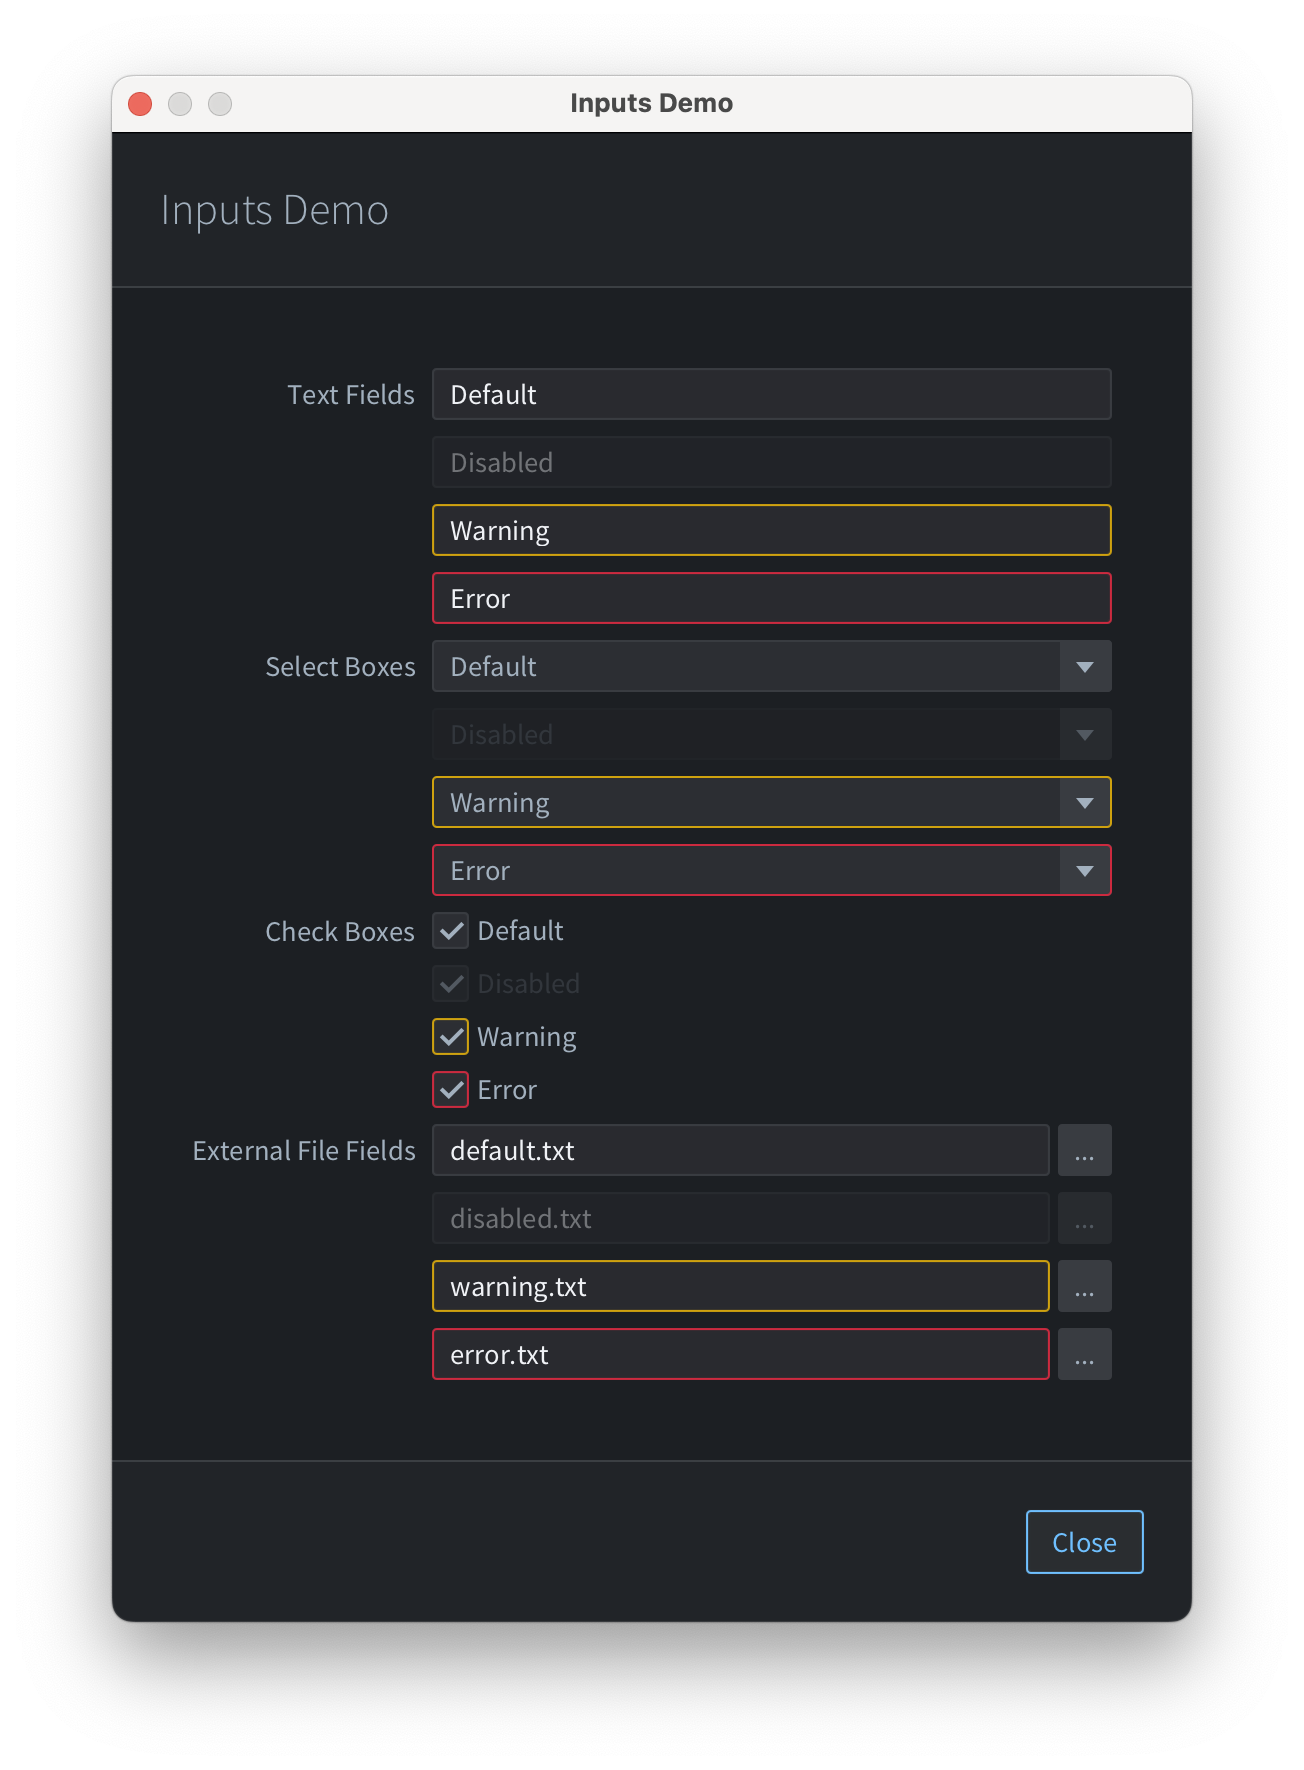
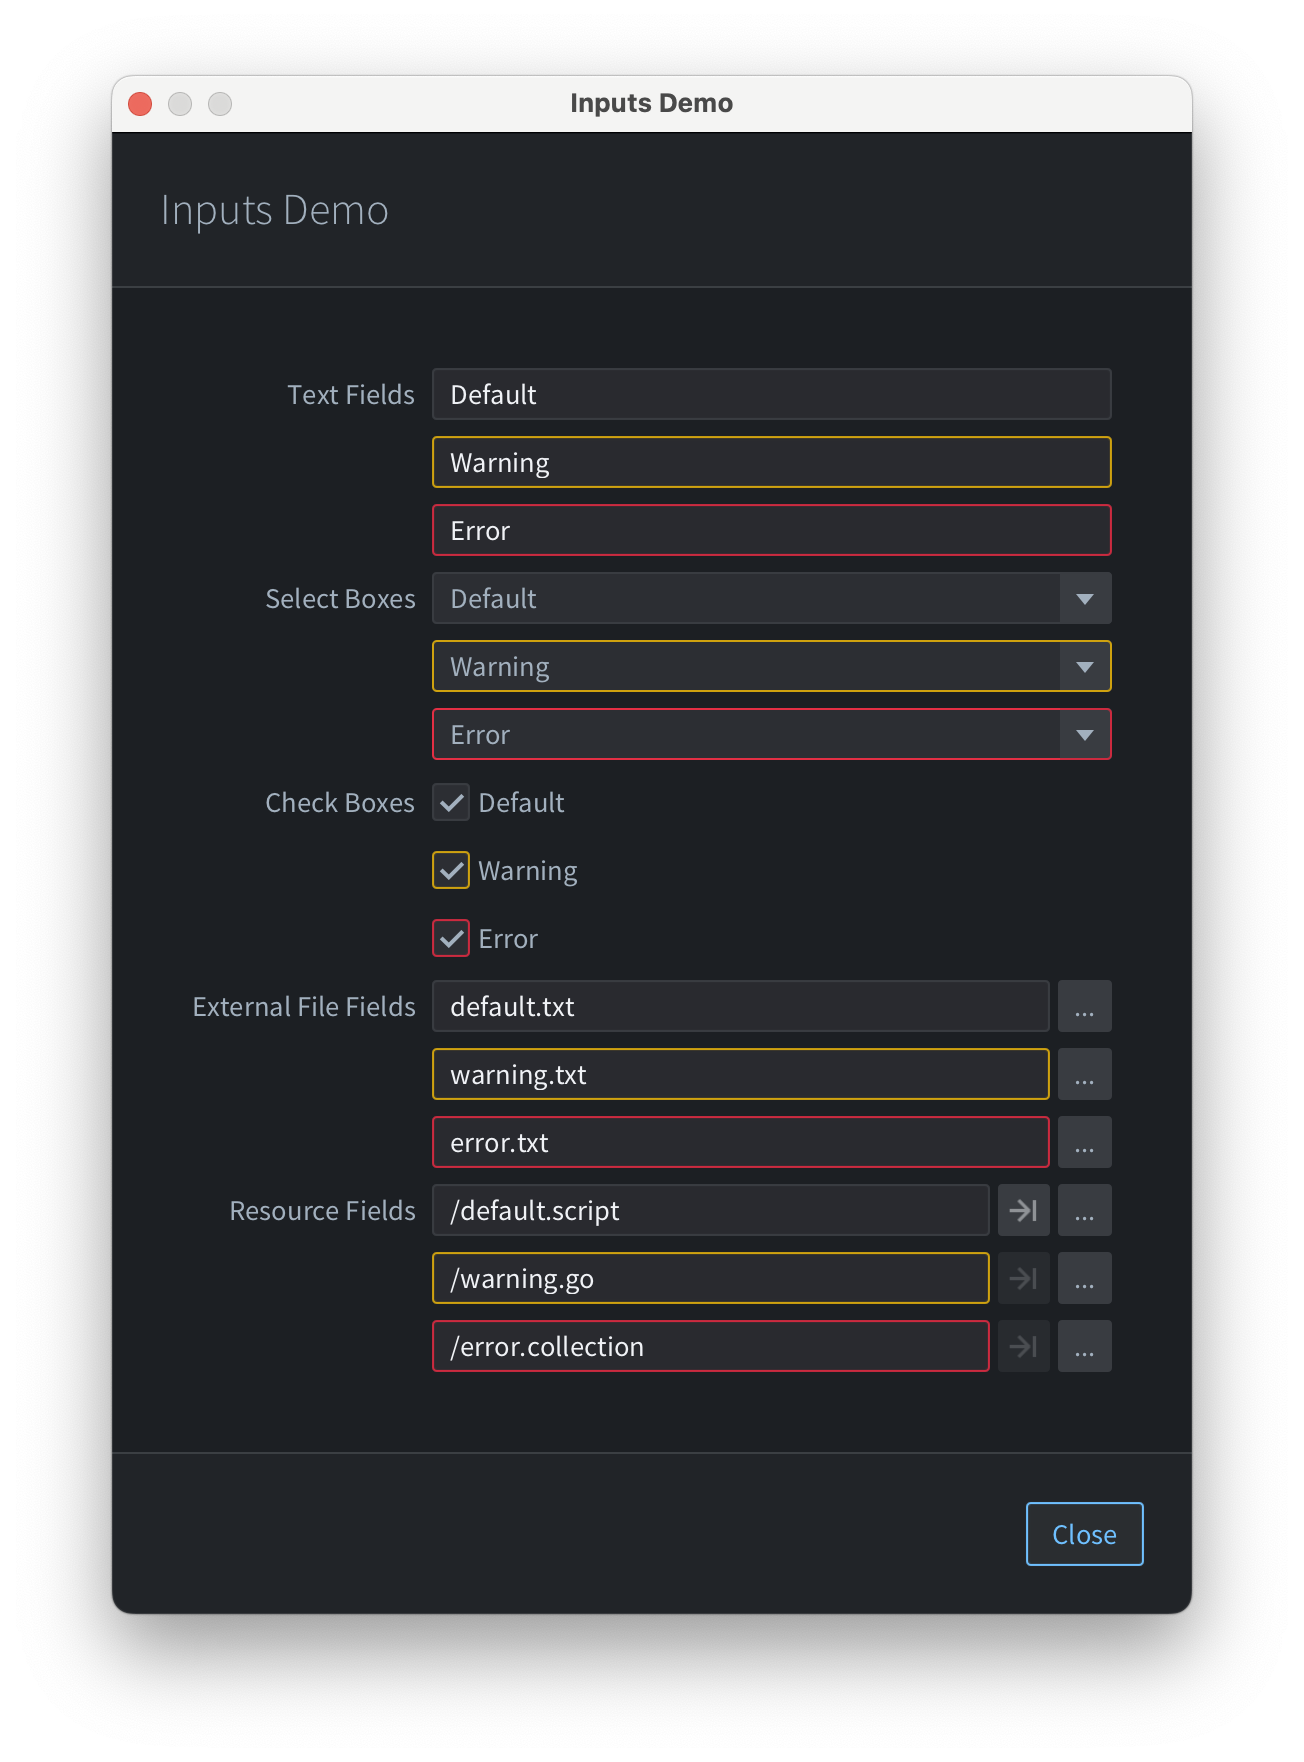
Update the manual

diff --git a/docs/en/manuals/editor-scripts-ui.md b/docs/en/manuals/editor-scripts-ui.md
@@ -66,13 +66,13 @@ The editor provides various UI **components** that can be composed to create the
 
 ### Alignment
 
-When the component gets assigned some bounds in the UI, it consume the whole space, though it does not mean that the visible part of the component will stretch. Instead, the visible part will take the space it needs, and then it will be aligned within the assigned bounds. Therefore, most built-in components define an `alignment` prop.
+When the component gets assigned some bounds in the UI, it will consume the whole space, though it does not mean that the visible part of the component will stretch. Instead, the visible part will take the space it needs, and then it will be aligned within the assigned bounds. Therefore, most built-in components define an `alignment` prop.
 
 For example, consider this label component:
 ```lua
 editor.ui.label({
     text = "Hello",
-    alignment = editor.ui.ALIGNMENT_RIGHT
+    alignment = editor.ui.ALIGNMENT.RIGHT
 })
 ```
 The visible part is the `Hello` text, and it's aligned within the assigned component bounds:
@@ -87,53 +87,29 @@ The editor defines various built-in components that can be used together to buil
 Layout components are used for placing other components next to each other. Main layout components are **`horizontal`**, **`vertical`** and **`grid`**. These components also define props such as **padding** and **spacing**, where padding is an empty space from the edge of the assigned bounds to the content, and spacing is an empty space between children:
 <div align="center"><img src="images/editor_scripts/padding_and_spacing.png" width="151px" height="100px"></div>
 
-Editor defines `small`, `medium` and `large` padding and spacing constants. When it comes to spacing, `small` is intended for spacing between different sub-elements of an individual UI element, `medium` is for spacing between individual UI elements, and `large` is a spacing between groups of elements. With paddings, `large` means padding from the edges of the window to content, `medium` is padding from the edges of a significant UI element, and `small` is a padding from the edges of small UI elements like context menus and tooltips (not implemented yet).
+Editor defines `small`, `medium` and `large` padding and spacing constants. When it comes to spacing, `small` is intended for spacing between different sub-elements of an individual UI element, `medium` is for spacing between individual UI elements, and `large` is a spacing between groups of elements. Default spacing is `medium`. With paddings, `large` means padding from the edges of the window to content, `medium` is padding from the edges of a significant UI element, and `small` is a padding from the edges of small UI elements like context menus and tooltips (not implemented yet).
 
-A **`horizontal`** container places its children one after another horizontally, always expanding the height every child to fill the available space. By default, the width of every child is kept to a minimum, though it's possible to expand it by setting `expand` prop to `true` on a child.
-
-Consider an example of a Rename File dialog with the following `content` prop:
-```lua
-editor.ui.horizontal({
-    padding = editor.ui.PADDING_LARGE,
-    spacing = editor.ui.SPACING_MEDIUM,
-    children = {
-        editor.ui.label({ 
-            text = "New File Name",
-            alignment = editor.ui.ALIGNMENT_CENTER
-        }),
-        editor.ui.text_field({ 
-            expand = true,
-            text = "foo.txt"
-        })
-    }
-})
-```
-When shown, the dialog will look like this:
-<div align="center"><img src="images/editor_scripts/rename_dialog.png" width="652px" height="405px"></div>
-
-Text field input has a bigger height than label, so label needs to be centered within its assigned bounds to align nicely:
-<div align="center"><img src="images/editor_scripts/rename_dialog_wireframe.png" width="600px" height="111px"></div>
+A **`horizontal`** container places its children one after another horizontally, always making the height every child fill the available space. By default, the width of every child is kept to a minimum, though it's possible to make it take as much space as possible by setting `grow` prop to `true` on a child.
 
 A **`vertical`** container is similar to horizontal, but with the axes switched.
 
-Finally, **`grid`** is a container component that lays out its children in a 2D grid, like a table. The `expand` setting in a grid applies to rows or columns, therefore it's set not on a child, but on column configuration table. Also, children in a grid may be configured to span multiple rows or columns with `row_span` and `column_span` props. Grids are useful for creating multi-input forms:
+Finally, **`grid`** is a container component that lays out its children in a 2D grid, like a table. The `grow` setting in a grid applies to rows or columns, therefore it's set not on a child, but on column configuration table. Also, children in a grid may be configured to span multiple rows or columns with `row_span` and `column_span` props. Grids are useful for creating multi-input forms:
 ```lua
 editor.ui.grid({
-    padding = editor.ui.PADDING_LARGE,
-    spacing = editor.ui.SPACING_MEDIUM,
-    columns = {{}, {expand = true}}, -- expand 2nd column
+    padding = editor.ui.PADDING.LARGE, -- add padding around dialog edges
+    columns = {{}, {grow = true}}, -- make 2nd column grow
     children = {
         {
             editor.ui.label({ 
                 text = "Level Name",
-                alignment = editor.ui.ALIGNMENT_RIGHT
+                alignment = editor.ui.ALIGNMENT.RIGHT
             }),
             editor.ui.text_field({})
         },
         {
             editor.ui.label({ 
                 text = "Author",
-                alignment = editor.ui.ALIGNMENT_RIGHT
+                alignment = editor.ui.ALIGNMENT.RIGHT
             }),
             editor.ui.text_field({})
         }
@@ -147,18 +123,18 @@ The code above will produce the following dialog form:
 
 The editor defines 3 data presentation components:
 - **`label`** — basic text label, intended to use for e.g. form inputs.
-- **`text`** — text element intended for presenting a paragraph of text. The difference with label is that text supports word wrapping: if the assigned bounds are too small horizontally, the text will wrap, and possibly will be shortened with `"..."` if it can't fit in the view.
+- **`text`** — text element intended for presenting a paragraph of text. The main difference with label is that text supports word wrapping: if the assigned bounds are too small horizontally, the text will wrap, and possibly will be shortened with `"..."` if it can't fit in the view.
 - **`icon`** — currently, it can only be used for presenting a small set of predefined icons, but we intend to allow more icons in the future.
 
 Text and label also define variants that control the color of the text. The variants are:
-- `editor.ui.TEXT_VARIANT_DEFAULT` - this is the default text variant
-- `editor.ui.TEXT_VARIANT_HINT` - less noticeable hint
-- `editor.ui.TEXT_VARIANT_WARNING` - text communicates a warning
-- `editor.ui.TEXT_VARIANT_ERROR` - text communicates an error
+- `editor.ui.TEXT_VARIANT.DEFAULT` - this is the default text variant
+- `editor.ui.TEXT_VARIANT.HINT` - less noticeable hint
+- `editor.ui.TEXT_VARIANT.WARNING` - text communicates a warning
+- `editor.ui.TEXT_VARIANT.ERROR` - text communicates an error
 
 ### Input components
 
-Input components are made for the user to interact with the UI. All input components support a `disabled` prop to disable the interaction, and define various callback props that notify the editor script on interaction.
+Input components are made for the user to interact with the UI. All input components support `enabled` prop to control if the interaction is enabled or not, and define various callback props that notify the editor script on interaction.
 
 If you create a static UI, it's enough to define callbacks that simply modify locals. For dynamic UIs and more advanced interactions, see [reactivity](#reactivity).
 
@@ -169,15 +145,15 @@ local file_name = ""
 local create_file = editor.ui.show_dialog(editor.ui.dialog({
     title = "Create New File",
     content = editor.ui.horizontal({
-        padding = editor.ui.PADDING_LARGE,
-        spacing = editor.ui.SPACING_MEDIUM,
+        padding = editor.ui.PADDING.LARGE,
+        spacing = editor.ui.SPACING.MEDIUM,
         children = {
             editor.ui.label({
                 text = "New File Name",
-                alignment = editor.ui.ALIGNMENT_CENTER
+                alignment = editor.ui.ALIGNMENT.CENTER
             }),
             editor.ui.text_field({
-                expand = true,
+                grow = true,
                 text = file_name,
                 -- Typing callback:
                 on_text_changed = function(new_text)
@@ -196,23 +172,22 @@ if create_file then
 end
 ```
 Here is a list of built-in input components:
-- **`text_field`** - single-line text input with an `on_text_changed` callback that is invoked on every typed characted
-- **`value_field`** - single-line value input field, requires `to_value` and `to_string` props that convert input text from string to value and back. `on_value_changed` is invoked only on explicit submit, i.e. on <kbd>Enter</kbd> or when focus leaves the component
+- **`text_field`** - single-line text input with an `on_text_changed` callback that is invoked on every typed character
+- **`value_field`** - single-line value input field, requires `to_value` and `to_string` props that convert input text from string to value and back. `on_value_changed` is invoked only on explicit submit, i.e. on <kbd>Enter</kbd> or when focus leaves the component. Additionally, pressing `Escape` clears the unsubmitted edit.
 - **`string_field`**, **`integer_field`** and **`number_field`** are variations of `value_field` that define appropriate `to_value` and `to_string` props
 - **`select_box`** is used for selecting an option from predefined array of options with a dropdown control.
 - **`check_box`** is a boolean input field with `on_value_changed` callback
-- **`text_check_box`** is a convenience component that uses label as a child component displayed near the check box itself (while the original `check_box` expects a full component definition as a child)
 - **`button`** with `on_press` callback that gets invoked on button press.
-- **`text_button`** and **`icon_button`** are convenience components that define specializations of a `button` with `label` or `icon`.
 - **`external_file_field`** is a component intended for selecting a file path on the computer. It consists of a text field and a button that opens a file selection dialog.
+- **`resource_field`** is a component intended for selecting a resource in the project.
 
 All components except buttons also define variants:
-- `editor.ui.INPUT_VARIANT_DEFAULT` - default input state
-- `editor.ui.INPUT_VARIANT_WARNING` - input communicates a warning
-- `editor.ui.INPUT_VARIANT_ERROR` - input communicates an error
+- `editor.ui.INPUT_VARIANT.DEFAULT` - default input state
+- `editor.ui.INPUT_VARIANT.WARNING` - input communicates a warning
+- `editor.ui.INPUT_VARIANT.ERROR` - input communicates an error
 
 Here is a demo of all inputs with their variants:
-<div align="center"><img src="images/editor_scripts/inputs_demo.png" width="652px" height="885px"></div>
+<div align="center"><img src="images/editor_scripts/inputs_demo.png" width="652px" height="881px"></div>
 
 ### Dialog-related components
 
@@ -222,7 +197,7 @@ Dialog buttons are special too: they are created using **`dialog_button`** compo
 
 ### Utility components
 
-Additionally, the editor define some utility components: 
+Additionally, the editor defines some utility components: 
 - **`separator`** is a thin line used for delimiting blocks of content
 - **`scroll`** is a wrapper component that shows scroll bars when the wrapped component does not fit in the assigned space
 
@@ -249,7 +224,7 @@ local dialog = editor.ui.component(function(props)
     return editor.ui.dialog({ 
         title = props.title,
         content = editor.ui.vertical({
-            padding = editor.ui.PADDING_LARGE,
+            padding = editor.ui.PADDING.LARGE,
             children = { 
                 editor.ui.text_field({ 
                     text = name,
@@ -265,8 +240,8 @@ local dialog = editor.ui.component(function(props)
             }),
             editor.ui.dialog_button({ 
                 text = "Create File",
-                -- 4. creation is disabled when the name is empty
-                disabled = name == "",
+                -- 4. creation is enabled when the name exists
+                enabled = name ~= "",
                 default = true,
                 -- 5. result is the name
                 result = name
@@ -328,12 +303,12 @@ local counter = editor.ui.component(function(props)
     local count, set_count = editor.ui.use_state(0)
     
     return editor.ui.horizontal({
-        spacing = editor.ui.SPACING_SMALL,
+        spacing = editor.ui.SPACING.SMALL,
         children = {
             editor.ui.label({
                 text = tostring(count),
-                alignment = editor.ui.ALIGNMENT_LEFT,
-                expand = true
+                alignment = editor.ui.ALIGNMENT.LEFT,
+                grow = true
             }),
             editor.ui.text_button({
                 text = "+1",
@@ -350,7 +325,7 @@ end)
 
 Finally, the state may be **reset**. The state is reset when any of the arguments to `editor.ui.use_state()` change, checked with `==`. Because of this, you must not use literal tables or literal initializer functions as arguments to `use_state` hook: this will cause the state to reset on every re-render. To illustrate:
 ```lua
--- ❌ BAD: literal table detault causes state reset on every re-render
+-- ❌ BAD: literal table initializer causes state reset on every re-render
 local user, set_user = editor.ui.use_state({ first_name = props.first_name, last_name = props.last_name})
 
 -- ✅ GOOD: use initializer function outside of component function to create table state
